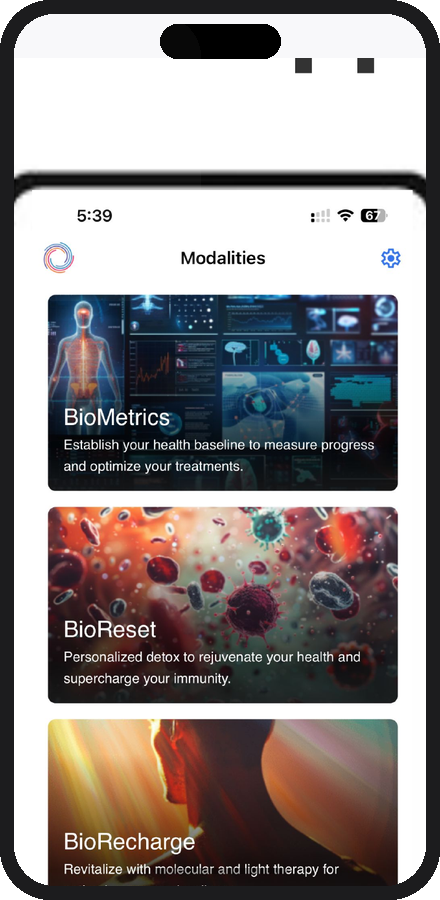
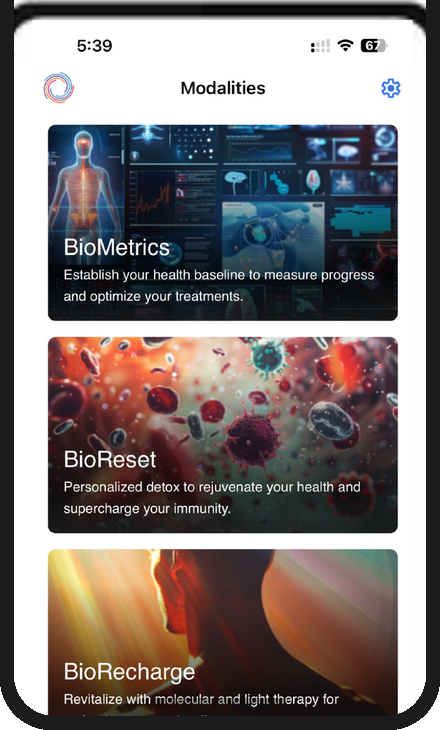
Fix phone mockup formatting + chart spacing for PDF export
- Crop white status bar from modalities phone screenshot
- Increase phone sizes in Digital Twin slide
- Add dark bezels/borders to phone mockups
- Fix mito energy score chart bar overflow (reduce bar scale 120→85)
- Fix Revenue Bridge chart headroom (maxH offset 52→95)
- Fix Proven Growth bar clipping title (bar 60→48px, margin 8→12px)
- Tighten Series A slide spacing for Capital Position visibility
- Move CAC/LTV/GM stats to bottom-left on Unit Economics slide

diff --git a/index.html b/index.html
@@ -325,10 +325,10 @@ h3{font-family:var(--head);font-weight:700;font-size:clamp(1rem,1.6vw,1.4rem);li
 /* Phone gallery */
 .app-gallery{display:flex;align-items:center;justify-content:center;gap:clamp(20px,3vw,50px);perspective:1800px;position:relative;flex:1 1 0;min-height:0;overflow:visible}
 .app-gallery .phone-mock{position:relative;flex-shrink:0;cursor:pointer;transition:transform .6s cubic-bezier(.25,.46,.45,.94),filter .5s;max-height:100%}
-.app-gallery .phone-mock img{width:100%;height:auto;display:block;filter:drop-shadow(0 20px 40px rgba(0,0,0,.6));max-height:clamp(250px,38vh,380px)}
-.app-gallery .phone-mock.side{width:clamp(100px,11vw,155px);transform:perspective(1800px) rotateY(var(--ry)) translateY(8px) scale(.88);filter:brightness(.8);z-index:2}
-.app-gallery .phone-mock.hero{width:clamp(130px,14vw,195px);z-index:5;animation:float 6s ease-in-out infinite}
-.app-gallery .phone-mock.hero img{filter:drop-shadow(0 30px 60px rgba(0,0,0,.7)) drop-shadow(0 0 40px rgba(167,139,250,.08));max-height:clamp(290px,44vh,440px)}
+.app-gallery .phone-mock img{width:100%;display:block;filter:drop-shadow(0 20px 40px rgba(0,0,0,.6));max-height:clamp(260px,38vh,380px);border-radius:16px;border:2px solid rgba(255,255,255,.12)}
+.app-gallery .phone-mock.side{width:clamp(115px,13vw,175px);transform:perspective(1800px) rotateY(var(--ry)) translateY(8px) scale(.88);filter:brightness(.8);z-index:2}
+.app-gallery .phone-mock.hero{width:clamp(150px,16vw,220px);z-index:5;animation:float 6s ease-in-out infinite}
+.app-gallery .phone-mock.hero img{filter:drop-shadow(0 30px 60px rgba(0,0,0,.7)) drop-shadow(0 0 40px rgba(167,139,250,.08));max-height:clamp(300px,44vh,440px);border-radius:20px;border:2px solid rgba(255,255,255,.15)}
 .app-gallery .phone-mock:hover{transform:translateY(-14px) scale(1.05)!important;filter:brightness(1)!important;z-index:10!important}
 .app-gallery .phone-mock.hero:hover{animation:none}
 .app-gallery .phone-mock .phone-label{text-align:center;margin-top:10px;opacity:.8;transition:opacity .3s;width:100%}
@@ -336,7 +336,7 @@ h3{font-family:var(--head);font-weight:700;font-size:clamp(1rem,1.6vw,1.4rem);li
 .app-gallery .phone-mock .phone-hint{font-size:9px;color:var(--dim);letter-spacing:1.5px;margin-top:3px;opacity:0;transition:opacity .3s;text-align:center;width:100%}
 .app-gallery .phone-mock:hover .phone-hint{opacity:.6}
 /* Bottom feature strip */
-.app-features{display:flex;gap:clamp(8px,1.5vw,16px);justify-content:center;flex-wrap:wrap;align-items:stretch}
+.app-features{display:flex;gap:clamp(8px,1.5vw,16px);justify-content:center;flex-wrap:wrap;align-items:stretch;margin-top:32px}
 .app-feat-card{flex:1;min-width:120px;max-width:180px;padding:10px 14px;border-radius:12px;background:rgba(255,255,255,.02);border:1px solid var(--border);backdrop-filter:blur(8px);transition:all .35s;cursor:default}
 .app-feat-card:hover{border-color:var(--border-hi);background:rgba(255,255,255,.04);transform:translateY(-2px)}
 .app-feat-card .feat-icon{font-size:16px;margin-bottom:4px}
@@ -941,33 +941,34 @@ div:hover > .inst-hint{opacity:1!important}
     <!-- Main 2-Column -->
     <div style="display:flex;gap:16px;flex:1;min-height:0">
       <!-- LEFT: Mitochondria Chart + Key Finding -->
-      <div class="glass anim d3" style="flex:1.05;padding:18px 16px 14px;display:flex;flex-direction:column;border-color:rgba(78,205,196,.08);overflow:visible">
-        <div class="center" style="margin-bottom:14px;flex-shrink:0">
+      <div class="glass anim d3" style="flex:1.05;padding:18px 16px 14px;display:flex;flex-direction:column;border-color:rgba(78,205,196,.08);overflow:hidden">
+        <div class="center" style="margin-bottom:14px;flex-shrink:0;position:relative;z-index:2">
           <div style="font-size:11px;font-weight:700;color:var(--dim);letter-spacing:1.5px">MITOCHONDRIA ENERGY SCORE</div>
           <div style="font-size:10px;color:var(--dim);margin-top:3px">3x/week Recharge Portal Sessions</div>
         </div>
-        <div id="mitoChart" style="display:flex;align-items:flex-end;gap:14px;flex:1;justify-content:center;min-height:0;padding-bottom:8px;overflow:visible">
+        <div style="flex-shrink:0;height:8px"></div>
+        <div id="mitoChart" style="display:flex;align-items:flex-end;gap:14px;flex:1;justify-content:center;min-height:0;padding-bottom:8px;overflow:hidden">
           <!-- Bar 1: Day 0 -->
           <div style="display:flex;flex-direction:column;align-items:center;width:64px">
-            <span style="font-family:var(--head);font-size:24px;font-weight:900;color:var(--bright);margin-bottom:4px">38</span>
+            <span style="font-family:var(--head);font-size:18px;font-weight:900;color:var(--bright);margin-bottom:4px">38</span>
             <div class="mbar" data-h="38" style="width:100%;height:0;border-radius:10px 10px 0 0;background:linear-gradient(to top,rgba(255,107,107,.08),var(--coral));transition:height 1.6s cubic-bezier(.25,.46,.45,.94);box-shadow:0 0 25px rgba(255,107,107,.12),inset 0 1px 0 rgba(255,255,255,.1)"></div>
             <span style="font-size:10px;color:var(--dim);margin-top:6px;text-align:center;line-height:1.3">Day 0<br/><b style="color:var(--coral)">Low</b></span>
           </div>
           <!-- Bar 2: Day 30 -->
           <div style="display:flex;flex-direction:column;align-items:center;width:64px">
-            <span style="font-family:var(--head);font-size:24px;font-weight:900;color:var(--bright);margin-bottom:4px">51</span>
+            <span style="font-family:var(--head);font-size:18px;font-weight:900;color:var(--bright);margin-bottom:4px">51</span>
             <div class="mbar" data-h="51" style="width:100%;height:0;border-radius:10px 10px 0 0;background:linear-gradient(to top,rgba(251,180,91,.08),var(--gold));transition:height 1.6s cubic-bezier(.25,.46,.45,.94) .15s;box-shadow:0 0 25px rgba(251,180,91,.12),inset 0 1px 0 rgba(255,255,255,.1)"></div>
             <span style="font-size:10px;color:var(--dim);margin-top:6px;text-align:center;line-height:1.3">Day 30<br/><b style="color:var(--gold)">Optimal</b></span>
           </div>
           <!-- Bar 3: Day 60 -->
           <div style="display:flex;flex-direction:column;align-items:center;width:64px">
-            <span style="font-family:var(--head);font-size:24px;font-weight:900;color:var(--bright);margin-bottom:4px">72</span>
+            <span style="font-family:var(--head);font-size:18px;font-weight:900;color:var(--bright);margin-bottom:4px">72</span>
             <div class="mbar" data-h="72" style="width:100%;height:0;border-radius:10px 10px 0 0;background:linear-gradient(to top,rgba(78,205,196,.08),var(--teal));transition:height 1.6s cubic-bezier(.25,.46,.45,.94) .3s;box-shadow:0 0 30px rgba(78,205,196,.15),inset 0 1px 0 rgba(255,255,255,.1)"></div>
             <span style="font-size:10px;color:var(--dim);margin-top:6px;text-align:center;line-height:1.3">Day 60<br/><b style="color:var(--teal)">High</b></span>
           </div>
           <!-- Bar 4: Day 100 (washout) -->
           <div style="display:flex;flex-direction:column;align-items:center;width:64px">
-            <span style="font-family:var(--head);font-size:24px;font-weight:900;color:var(--bright);margin-bottom:4px">46</span>
+            <span style="font-family:var(--head);font-size:18px;font-weight:900;color:var(--bright);margin-bottom:4px">46</span>
             <div class="mbar" data-h="46" style="width:100%;height:0;border-radius:10px 10px 0 0;background:linear-gradient(to top,rgba(167,139,250,.08),var(--purple));transition:height 1.6s cubic-bezier(.25,.46,.45,.94) .45s;box-shadow:0 0 25px rgba(167,139,250,.12),inset 0 1px 0 rgba(255,255,255,.1)"></div>
             <span style="font-size:10px;color:var(--dim);margin-top:6px;text-align:center;line-height:1.3">Day 100<br/><b style="color:var(--purple)">40d off</b></span>
           </div>
@@ -2419,7 +2420,7 @@ div:hover > .inst-hint{opacity:1!important}
         <div style="display:flex;gap:10px;align-items:stretch">
           <div class="glass anim d1" style="flex:1;padding:14px 16px;text-align:center;border-color:rgba(255,255,255,.08)">
             <div style="font-size:10px;color:var(--dim);letter-spacing:2px;font-weight:700">PROVEN GROWTH</div>
-            <div style="display:flex;align-items:flex-end;gap:8px;justify-content:center;margin-top:8px;height:60px">
+            <div style="display:flex;align-items:flex-end;gap:8px;justify-content:center;margin-top:12px;height:55px">
               <div style="display:flex;flex-direction:column;align-items:center;gap:2px;flex:1">
                 <div style="font-size:10px;font-weight:900;color:var(--dim)">$1.0M</div>
                 <div style="width:100%;border-radius:3px 3px 0 0;background:linear-gradient(to top,rgba(78,205,196,.1),rgba(78,205,196,.25));height:10px"></div>
@@ -2432,7 +2433,7 @@ div:hover > .inst-hint{opacity:1!important}
               </div>
               <div style="display:flex;flex-direction:column;align-items:center;gap:2px;flex:1">
                 <div style="font-size:12px;font-weight:900;color:var(--teal)">$5.7M</div>
-                <div style="width:100%;border-radius:3px 3px 0 0;background:linear-gradient(to top,rgba(78,205,196,.3),var(--teal));height:60px;box-shadow:0 0 12px rgba(78,205,196,.15)"></div>
+                <div style="width:100%;border-radius:3px 3px 0 0;background:linear-gradient(to top,rgba(78,205,196,.3),var(--teal));height:48px;box-shadow:0 0 12px rgba(78,205,196,.15)"></div>
                 <div style="font-size:8px;color:var(--teal);font-weight:700">&rsquo;25</div>
               </div>
             </div>
@@ -2469,7 +2470,8 @@ div:hover > .inst-hint{opacity:1!important}
               <span style="display:flex;align-items:center;gap:4px"><span style="width:7px;height:7px;border-radius:2px;background:var(--purple)"></span>Clinic</span>
             </div>
           </div>
-          <div id="bridgeChart" style="flex:1;display:flex;align-items:flex-end;justify-content:center;gap:8px;min-height:100px;padding-bottom:4px;padding-top:28px;position:relative"></div>
+          <div style="flex-shrink:0;height:20px"></div>
+        <div id="bridgeChart" style="flex:1;display:flex;align-items:flex-end;justify-content:center;gap:8px;min-height:100px;padding-bottom:4px;padding-top:48px;position:relative"></div>
         </div>
         <!-- Deep Dive CTAs -->
         <div style="display:flex;gap:10px" class="anim d4">
@@ -2776,11 +2778,7 @@ div:hover > .inst-hint{opacity:1!important}
           <div class="tag" style="color:var(--gold)">UNIT ECONOMICS</div>
           <h2 style="margin-top:6px;font-size:clamp(1.2rem,2.4vw,1.8rem)">Proven at the <span class="grad-text">Unit Level</span></h2>
         </div>
-        <div style="margin-left:auto;display:flex;gap:12px">
-          <div class="glass-sm" style="text-align:center;padding:8px 16px;border-color:rgba(78,205,196,.12)"><div class="sv-sm" style="color:var(--teal);font-size:clamp(1rem,1.6vw,1.4rem)">$0</div><div class="sl" style="font-size:10.5px;margin-top:2px">Zero CAC</div></div>
-          <div class="glass-sm" style="text-align:center;padding:8px 16px;border-color:rgba(251,180,91,.12)"><div class="sv-sm" style="color:var(--gold);font-size:clamp(1rem,1.6vw,1.4rem)">$40.9K</div><div class="sl" style="font-size:10.5px;margin-top:2px">Labs LTV</div></div>
-          <div class="glass-sm" style="text-align:center;padding:8px 16px;border-color:rgba(167,139,250,.12)"><div class="sv-sm" style="color:var(--purple);font-size:clamp(1rem,1.6vw,1.4rem)">47&ndash;80%</div><div class="sl" style="font-size:10.5px;margin-top:2px">Hardware GM</div></div>
-        </div>
+        <div style="margin-left:auto"></div>
       </div>
     </div>
 
@@ -2880,6 +2878,12 @@ div:hover > .inst-hint{opacity:1!important}
               <div style="width:32px;font-size:9.5px;font-weight:900;color:var(--gold);text-align:right">47.1%</div>
             </div>
           </div>
+        </div>
+        <!-- Key Stats (moved from header) -->
+        <div style="display:flex;gap:10px;margin-top:auto">
+          <div class="glass-sm" style="flex:1;text-align:center;padding:8px 12px;border-color:rgba(78,205,196,.12)"><div class="sv-sm" style="color:var(--teal);font-size:clamp(1rem,1.6vw,1.4rem)">$0</div><div class="sl" style="font-size:10.5px;margin-top:2px">Zero CAC</div></div>
+          <div class="glass-sm" style="flex:1;text-align:center;padding:8px 12px;border-color:rgba(251,180,91,.12)"><div class="sv-sm" style="color:var(--gold);font-size:clamp(1rem,1.6vw,1.4rem)">$40.9K</div><div class="sl" style="font-size:10.5px;margin-top:2px">Labs LTV</div></div>
+          <div class="glass-sm" style="flex:1;text-align:center;padding:8px 12px;border-color:rgba(167,139,250,.12)"><div class="sv-sm" style="color:var(--purple);font-size:clamp(1rem,1.6vw,1.4rem)">47&ndash;80%</div><div class="sl" style="font-size:10.5px;margin-top:2px">Hardware GM</div></div>
         </div>
       </div>
 
@@ -3090,15 +3094,15 @@ div:hover > .inst-hint{opacity:1!important}
   <div class="orb" style="width:400px;height:400px;background:rgba(167,139,250,.04);bottom:-5%;right:10%;animation-delay:5s"></div>
   <div class="z1" style="height:100%;display:flex;flex-direction:column;justify-content:center">
     <!-- Investor Philosophy Banner -->
-    <div class="anim" style="text-align:center;margin-bottom:20px">
-      <div style="font-size:10px;color:var(--teal);font-weight:700;letter-spacing:3px;text-transform:uppercase;margin-bottom:8px">We Seek Partners Who Think in Decades</div>
-      <div style="font-family:var(--head);font-size:clamp(1.4rem,2.8vw,2.2rem);font-weight:700;color:var(--bright);line-height:1.3;max-width:800px;margin:0 auto">
+    <div class="anim" style="text-align:center;margin-bottom:12px">
+      <div style="font-size:10px;color:var(--teal);font-weight:700;letter-spacing:3px;text-transform:uppercase;margin-bottom:6px">We Seek Partners Who Think in Decades</div>
+      <div style="font-family:var(--head);font-size:clamp(1.2rem,2.4vw,1.8rem);font-weight:700;color:var(--bright);line-height:1.3;max-width:800px;margin:0 auto">
         &ldquo;We are not building for a quarter.<br/>We are building for <span style="color:var(--teal)">generations</span>.&rdquo;
       </div>
     </div>
 
     <!-- WHY NOW -->
-    <div class="anim d1" style="display:flex;gap:10px;margin-bottom:14px">
+    <div class="anim d1" style="display:flex;gap:8px;margin-bottom:8px">
       <div style="flex:1;padding:10px 14px;border-radius:12px;background:linear-gradient(135deg,rgba(78,205,196,.04),rgba(251,180,91,.03));border:1px solid rgba(78,205,196,.12);display:flex;align-items:center;gap:10px">
         <div style="width:32px;height:32px;border-radius:8px;background:rgba(78,205,196,.1);border:1px solid rgba(78,205,196,.2);display:flex;align-items:center;justify-content:center;flex-shrink:0;font-size:14px">&#9202;</div>
         <div><div style="font-size:10px;color:var(--teal);font-weight:800;letter-spacing:1.5px">TIMING</div><div style="font-size:10px;color:var(--dim);margin-top:1px;line-height:1.4">Longevity market inflecting <b style="color:var(--bright)">5x to $127B</b> by 2030. First-mover advantage in integrated protocols is closing fast.</div></div>
@@ -3116,12 +3120,12 @@ div:hover > .inst-hint{opacity:1!important}
     <div class="row" style="align-items:start;gap:24px">
       <!-- LEFT: The Ask + Use of Proceeds -->
       <div class="col anim-left" style="flex:1.1">
-        <div class="row anim d1" style="gap:16px;align-items:start;margin-bottom:14px">
+        <div class="row anim d1" style="gap:12px;align-items:start;margin-bottom:10px">
           <!-- Amount Card -->
-          <div class="glass" style="flex:1;padding:24px 28px;text-align:center;border-color:rgba(78,205,196,.15);box-shadow:0 0 50px rgba(78,205,196,.08)">
-            <div class="tag" style="color:var(--teal);margin-bottom:6px">Series A</div>
-            <div style="font-family:var(--head);font-size:clamp(3.5rem,7vw,5.5rem);font-weight:900;line-height:1"><span class="grad-text">$40M</span></div>
-            <div style="font-size:12px;color:var(--dim);margin-top:4px">Pre-Money: <span style="color:var(--teal);font-weight:700">$100M</span></div>
+          <div class="glass" style="flex:1;padding:16px 20px;text-align:center;border-color:rgba(78,205,196,.15);box-shadow:0 0 50px rgba(78,205,196,.08)">
+            <div class="tag" style="color:var(--teal);margin-bottom:4px">Series A</div>
+            <div style="font-family:var(--head);font-size:clamp(2.8rem,5.5vw,4.2rem);font-weight:900;line-height:1"><span class="grad-text">$40M</span></div>
+            <div style="font-size:11px;color:var(--dim);margin-top:3px">Pre-Money: <span style="color:var(--teal);font-weight:700">$100M</span></div>
             <div style="margin-top:8px;padding:6px 10px;border-radius:8px;background:rgba(255,255,255,.03);border:1px solid rgba(255,255,255,.06)">
               <div style="font-size:8px;color:var(--dim);letter-spacing:1.5px;font-weight:700;margin-bottom:3px">PRIOR CAPITAL RAISED</div>
               <div style="display:flex;gap:8px;justify-content:center;font-size:9px;color:var(--dim)">
@@ -3134,11 +3138,11 @@ div:hover > .inst-hint{opacity:1!important}
             </div>
           </div>
           <!-- Donut Card -->
-          <div class="glass" style="flex:1;padding:20px;text-align:center;border-color:rgba(78,205,196,.12)">
-            <h3 style="font-size:12px;margin-bottom:12px">Use of Proceeds</h3>
-            <div class="donut" style="width:160px;height:160px;margin:0 auto;background:conic-gradient(var(--teal) 0deg 126deg,var(--gold) 126deg 216deg,var(--coral) 216deg 288deg,var(--purple) 288deg 360deg)">
+          <div class="glass" style="flex:1;padding:14px 16px;text-align:center;border-color:rgba(78,205,196,.12)">
+            <h3 style="font-size:11px;margin-bottom:8px">Use of Proceeds</h3>
+            <div class="donut" style="width:140px;height:140px;margin:0 auto;background:conic-gradient(var(--teal) 0deg 126deg,var(--gold) 126deg 216deg,var(--coral) 216deg 288deg,var(--purple) 288deg 360deg)">
               <div class="donut-inner" style="width:90px;height:90px"><div style="font-family:var(--head);font-size:18px;font-weight:900">$40M</div></div></div>
-            <div style="display:grid;grid-template-columns:1fr 1fr;gap:6px;margin-top:14px;text-align:left;font-size:11px">
+            <div style="display:grid;grid-template-columns:1fr 1fr;gap:4px;margin-top:10px;text-align:left;font-size:10px">
               <div style="display:flex;align-items:center;gap:4px"><span style="width:8px;height:8px;border-radius:2px;background:var(--teal);flex-shrink:0"></span><b>35%</b> Network Growth</div>
               <div style="display:flex;align-items:center;gap:4px"><span style="width:8px;height:8px;border-radius:2px;background:var(--gold);flex-shrink:0"></span><b>25%</b> Ops &amp; Marketing</div>
               <div style="display:flex;align-items:center;gap:4px"><span style="width:8px;height:8px;border-radius:2px;background:var(--coral);flex-shrink:0"></span><b>20%</b> HemoDetox Trials</div>
@@ -3147,8 +3151,8 @@ div:hover > .inst-hint{opacity:1!important}
           </div>
         </div>
         <!-- Where Your Capital Goes — detailed allocation -->
-        <div class="glass anim d2" style="padding:16px 20px">
-          <h3 style="font-size:11px;margin-bottom:10px;color:var(--bright)">Where Your Capital Goes</h3>
+        <div class="glass anim d2" style="padding:12px 16px">
+          <h3 style="font-size:10px;margin-bottom:6px;color:var(--bright)">Where Your Capital Goes</h3>
           <div style="display:flex;flex-direction:column;gap:6px">
             <div style="display:flex;gap:8px;align-items:start">
               <div style="flex-shrink:0;width:42px;text-align:right"><span style="font-size:13px;font-weight:900;color:var(--teal)">$14M</span></div>
@@ -3181,7 +3185,7 @@ div:hover > .inst-hint{opacity:1!important}
           </div>
         </div>
         <!-- Capital Position -->
-        <div class="glass-sm anim d3" style="margin-top:8px;padding:10px 16px;border-color:rgba(251,180,91,.1);display:flex;align-items:center;gap:14px">
+        <div class="glass-sm anim d3" style="margin-top:6px;padding:8px 16px;border-color:rgba(251,180,91,.1);display:flex;align-items:center;gap:14px">
           <div style="font-size:8px;color:var(--gold);font-weight:800;letter-spacing:1.5px;flex-shrink:0">CAPITAL POSITION</div>
           <div style="display:flex;gap:12px;font-size:10px;color:var(--dim)">
             <span>Total Assets <b style="color:var(--bright)">$8.0M</b></span>
@@ -3218,7 +3222,7 @@ div:hover > .inst-hint{opacity:1!important}
           </div>
         </div>
         <!-- Return + Philosophy -->
-        <div class="row anim d3" style="gap:10px;margin-top:12px">
+        <div class="row anim d3" style="gap:8px;margin-top:8px">
           <div class="glass-sm" style="flex:1;padding:14px 16px;text-align:center;border-color:rgba(78,205,196,.2);animation:glow-pulse 4s ease-in-out infinite">
             <div style="font-size:10.5px;color:var(--dim);letter-spacing:1px">TARGET RETURN</div>
             <div style="font-family:var(--head);font-size:34px;font-weight:900;margin-top:2px"><span class="grad-text">~10x</span></div>
@@ -3229,7 +3233,7 @@ div:hover > .inst-hint{opacity:1!important}
           </div>
         </div>
         <!-- Bottom quote -->
-        <div class="anim d4" style="margin-top:12px;padding:12px 18px;border-radius:12px;background:rgba(78,205,196,.04);border:1px solid rgba(78,205,196,.08);text-align:center">
+        <div class="anim d4" style="margin-top:8px;padding:10px 16px;border-radius:12px;background:rgba(78,205,196,.04);border:1px solid rgba(78,205,196,.08);text-align:center">
           <div style="font-size:11px;font-style:italic;color:var(--dim);line-height:1.5">&ldquo;The best investments are built on shared values.<br/>We choose partners the way we choose protocols &mdash;<br/><span style="color:var(--teal);font-weight:700;font-style:normal">with intention, integrity, and a long time horizon.</span>&rdquo;</div>
           <div style="font-size:10.5px;color:var(--dim);margin-top:6px;letter-spacing:1px">&mdash; DAVID PEREZ, FOUNDER &amp; CEO</div>
         </div>
@@ -3308,9 +3312,9 @@ div:hover > .inst-hint{opacity:1!important}
   function ui(){prog.style.width=((cur+1)/total*100)+'%';num.textContent=String(cur+1).padStart(2,'0')+' / '+total}
   function go(n){if(n<0||n>=total||n===cur||busy)return;busy=true;slides[cur].classList.remove('active');cur=n;slides[cur].classList.add('active');ui();anim(slides[cur]);setTimeout(()=>busy=false,650)}
   window.navPrev=function(){go(cur-1)};window.navNext=function(){go(cur+1)};window.goSlide=go;
-  function anim(s){s.querySelectorAll('.anim').forEach(e=>{e.style.animation='none';e.offsetHeight;e.style.animation=''});if(s.id==='s6')setTimeout(()=>s.querySelectorAll('.mbar').forEach(b=>b.style.height=(b.dataset.h/80*120)+'px'),300);if(s.id==='s15')buildBridgeChart();if(s.id==='s16')buildDivRev();if(s.id==='s16a')setTimeout(function(){s.querySelectorAll('.gm-bar-ue').forEach(function(b){b.style.width=b.dataset.w+'%'})},500)}
+  function anim(s){s.querySelectorAll('.anim').forEach(e=>{e.style.animation='none';e.offsetHeight;e.style.animation=''});if(s.id==='s6')setTimeout(()=>s.querySelectorAll('.mbar').forEach(b=>b.style.height=(b.dataset.h/80*85)+'px'),300);if(s.id==='s15')buildBridgeChart();if(s.id==='s16')buildDivRev();if(s.id==='s16a')setTimeout(function(){s.querySelectorAll('.gm-bar-ue').forEach(function(b){b.style.width=b.dataset.w+'%'})},500)}
   function buildBridgeChart(){const c=document.getElementById('bridgeChart');if(!c||c.dataset.b)return;c.dataset.b='1';
-    const maxH=c.offsetHeight-52||120;
+    const maxH=c.offsetHeight-95||90;
     const data=[
       {y:'2025',t:5.7,hd:5.7,rp:0,eq:0,cl:0,su:0,grow:''},
       {y:'2026',t:18.6,hd:13.1,rp:1.2,eq:2.7,cl:1.7,su:0.03,grow:'+226%'},
